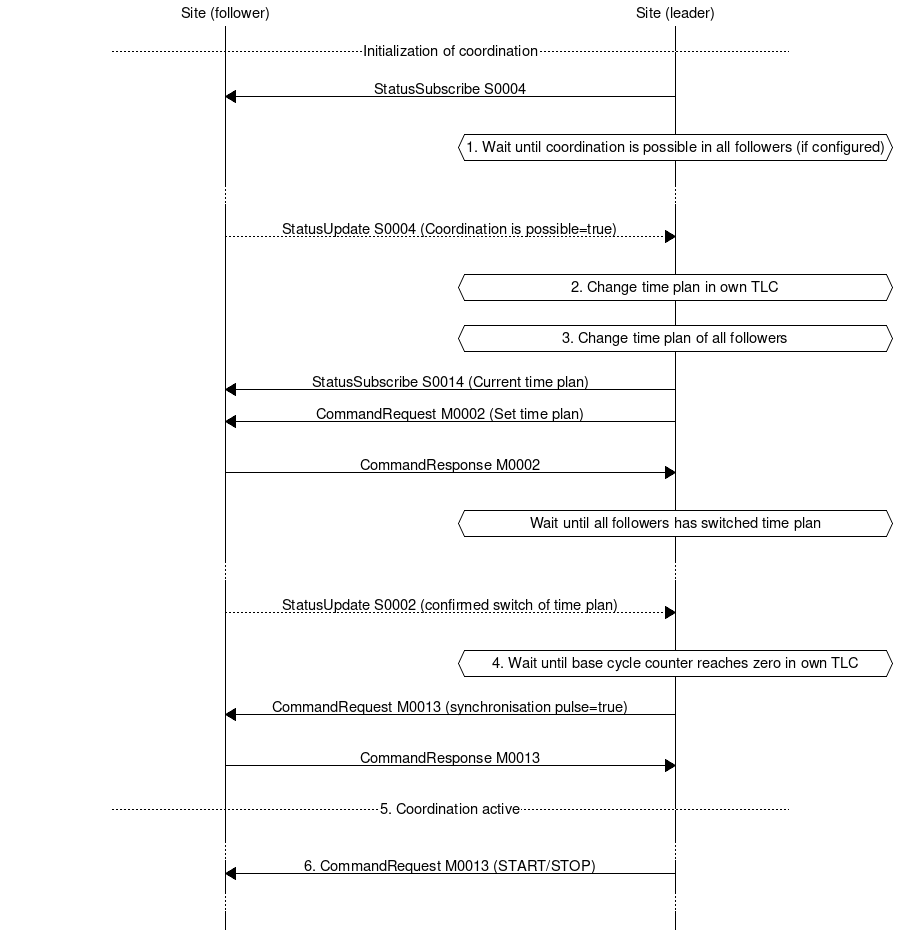
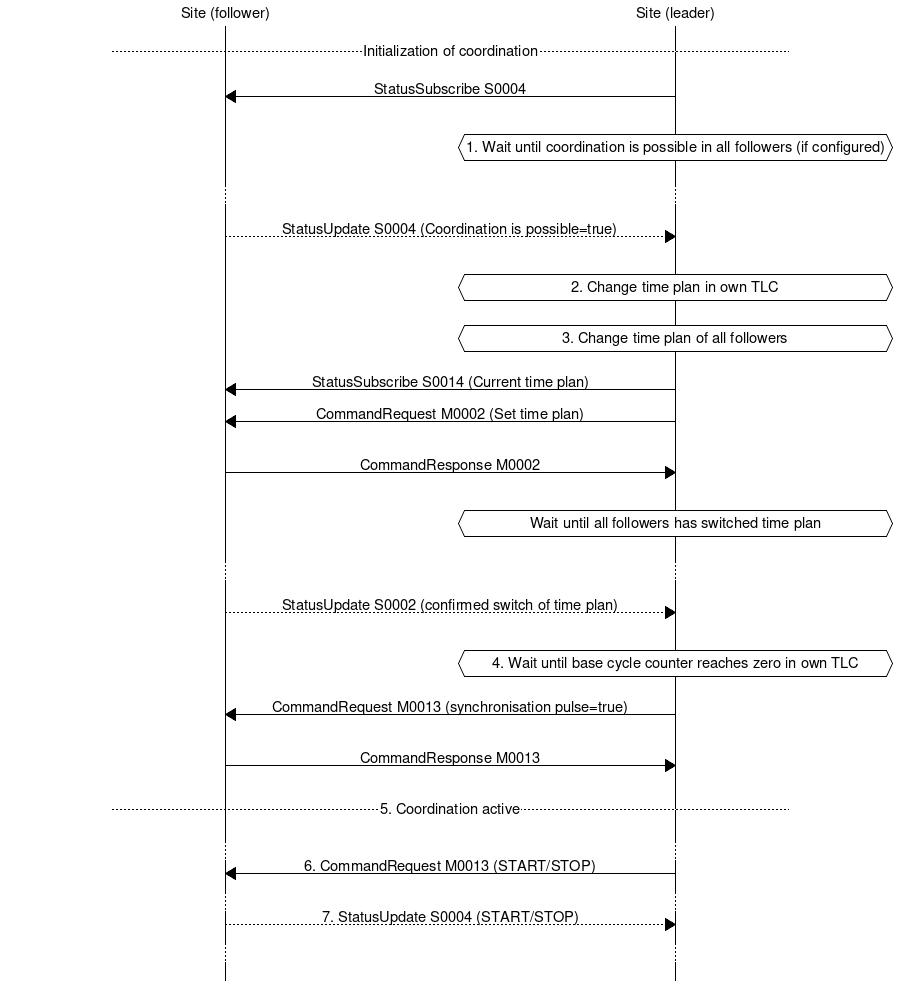
coordination: clarify that output is used to receive START/STOP

diff --git a/appendix_coordination.md b/appendix_coordination.md
@@ -140,14 +140,14 @@ Command types       | Description
 M0002               | Time plan
 M0006/M0013 (Input) | Coordination can continue (local coordination) (true/false)
 M0006/M0013 (Input) | Synchronization pulse (coordination with continue) (true/false)
-M0006/M0013 (Input) | START bit (true/false)
-M0006/M0013 (Input) | STOP bit (true/false)
+M0006/M0013 (Input) | START/STOP bit (true/false)
 
 
 Status types   | Description
 ---------------|------------
 S0004 (Output) | Coordination is possible (true/false)
 S0004 (Output) | Synchronization step (local coordnation) (true/false)
+M0004 (Output) | START/STOP bit (true/false)
 
 Please note:
 - securityCode is ignored at TLC-TLC-communication. Fields for
@@ -223,6 +223,8 @@ Initialization sequence for local coordination
    terminated if it turns false in any follower.
 7. Leader sends START/STOP order using M0006 or M0013 to followers
    during each cycle.
+8. Leader receives START/STOP order using output (M0004) from followers
+   during each cycle.
 
 ![Figure 3: Sequence at local coordination](appendix_coordination_img/local_coordination.png)
 
@@ -245,8 +247,10 @@ Initialization sequence for coordination with synchronized cycle counter
    still is possible in all followers (see step 1) through subscription
    on output (S0004) _coordination is possible_. Coordination is
    terminated if it turns false is any follower.
-6. If external control bits are used: Leader sends START/STOP order
-   using M0006 or M0013 to followers during each cycle.
+6. If external control bits are used: Leader sends START/STOP order to
+   followers during each cycle
+7. If external control bits are used: Leader receives START/STOP order
+   using output (M0004) from followers during each cycle.
 
 ![Figure 4: Sequence at coordination with synchronized cycle timer](appendix_coordination_img/central_coordination.png)
 
